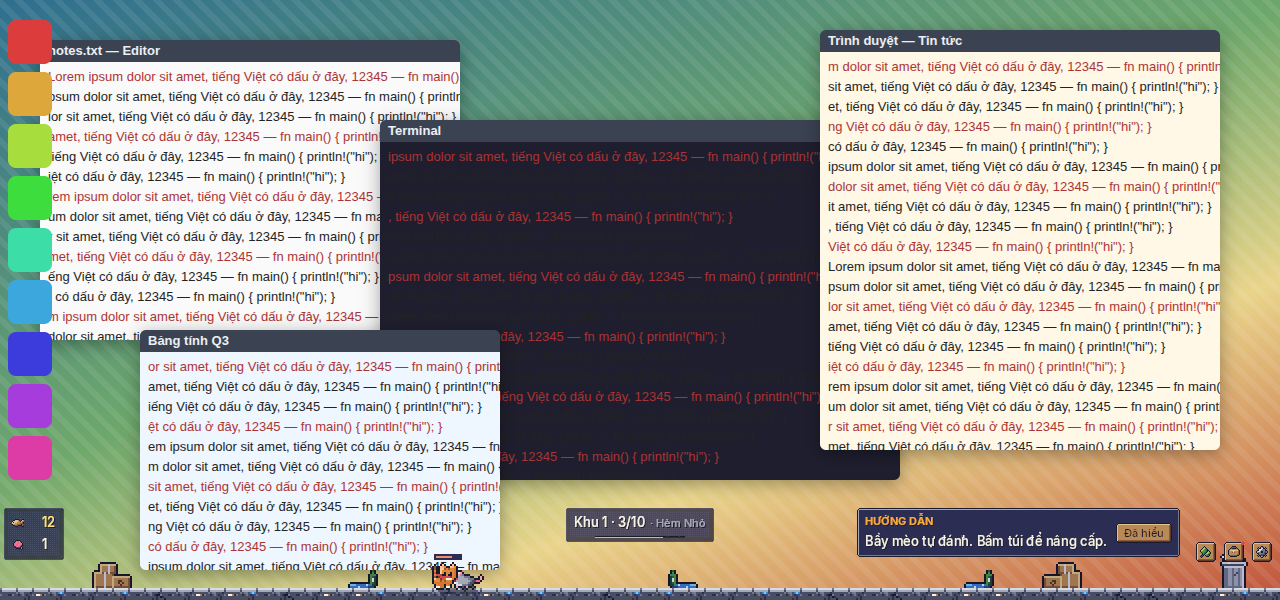
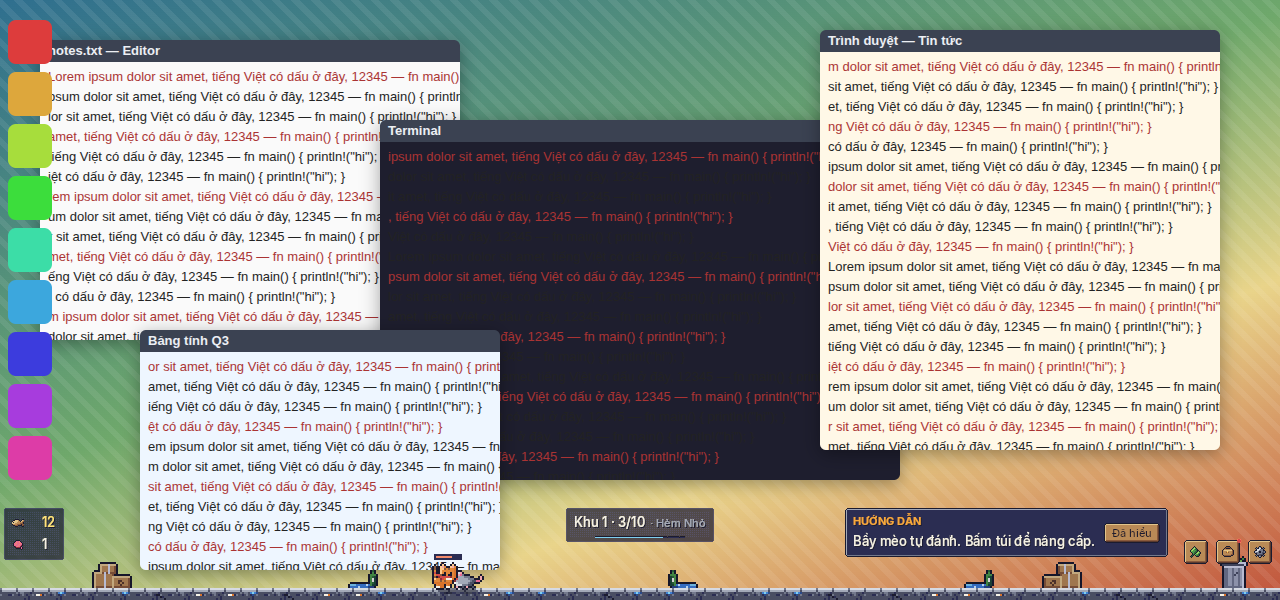
Keep HUD buttons at least 24 px; refresh shots

Changed region(s): [[0.6562, 0.84, 1.0, 0.96]]

diff --git a/crates/game/src/ui/hud.rs b/crates/game/src/ui/hud.rs
@@ -15,8 +15,9 @@ use cm_core::{CatId, Command, Game, Hud, fmt_num};
 pub fn right_cluster_w(k: f32) -> f32 {
     3.0 * btn_size(k) + 2.0 * S2 + S2
 }
+/// Tối thiểu 24 px để dễ bấm bằng chuột ở HUD ×1 (icon 12 px + lề 6 px mỗi bên).
 pub fn btn_size(k: f32) -> f32 {
-    20.0 * k
+    (20.0 * k).max(24.0)
 }
 /// Hệ số art của HUD theo bố cục: một nửa hệ số thế giới (làm tròn lên) để thế giới là nhân vật chính
 /// (×1, ×2 → HUD ×1; ×3, ×4 → HUD ×2).
@@ -289,5 +290,11 @@ mod tests {
         assert_eq!(super::hud_k_for(2.0), 1.0);
         assert_eq!(super::hud_k_for(3.0), 2.0);
         assert_eq!(super::hud_k_for(4.0), 2.0);
+    }
+
+    #[test]
+    fn hud_buttons_stay_clickable() {
+        assert_eq!(super::btn_size(1.0), 24.0);
+        assert_eq!(super::btn_size(2.0), 40.0);
     }
 }
